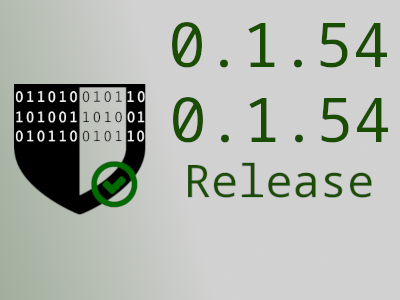
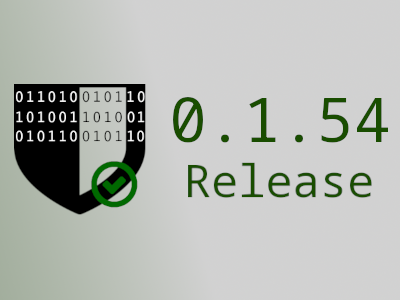
Fix 0.1.54 thumbnail.

diff --git a/_posts/2021-02-04-release-0.1.54.md b/_posts/2021-02-04-release-0.1.54.md
@@ -3,7 +3,7 @@ layout: post
 title: "Releasing ComplianceAsCode / Content 0.1.54"
 categories: template
 author: Vojtěch Polášek
-img: thumbnail/release_0_1_58.png
+img: thumbnail/release_0_1_54.png
 ---
 
 I am happy to announce that ComplianceAsCode / Content v0.1.54 [has been released](https://github.com/ComplianceAsCode/content/releases/tag/v0.1.54) on February 3rd. This is the first version released in 2021 and it brings many interesting improvements for users as well as content developers.
